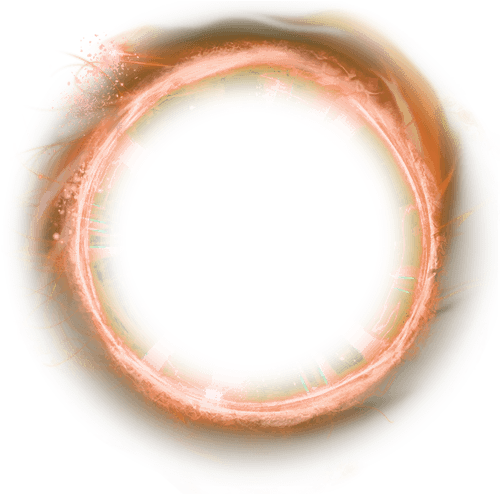
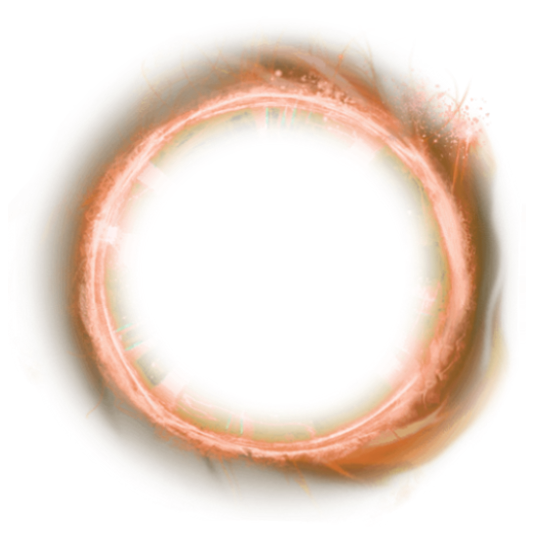
home page portal effect

diff --git a/src/components/home/Home.css b/src/components/home/Home.css
@@ -1,74 +1,81 @@
-body{
+body {
   margin: 0 !important;
 }
 
-.background{
+.background {
   background-image: url("../../../public/pic/Home/hall.jpg");
   background-repeat: no-repeat;
   background-size: contain;
   background-position: center;
   height: 937px;
-
-  
 }
 
-.container{
+.container {
   display: block;
   height: 100%;
 }
 
-.toCar{
+.toCar {
   position: absolute;
   left: 14%;
   top: 50%;
 }
 
-.toPhone{
+.toPhone {
   position: absolute;
-  left: 40%;
-  top: 50%;
+  left: 15%;
+  top: 20%;
+  height: 550px;
+  width: 550px;
+  transform: perspective(500px) rotateY(50deg) scale(0.1);
 }
 
-.toGoods{
+.toPhone:hover {
+  animation: rotate-center2 2s linear both;
+}
+.toGoods {
   position: absolute;
   left: 47.5%;
   top: 45%;
   height: 100px;
   width: 100px;
 }
-
-#doorCar{
+.doorPhone{
+  position: absolute;
+  left: 0%;
+  top: 0%;
+}
+#doorCar {
   width: 250px;
   transform: rotateY(45deg);
 }
 
-#doorCar:hover{
+#doorCar:hover {
   cursor: pointer;
-  -webkit-animation: rotate-center 1.3s linear both;
-          animation: rotate-center 1.3s linear both;
-          animation-iteration-count: infinite;
-          animation-delay: 0;
-          transform: rotateY(45deg);
+  animation: rotate-center 1.3s linear both;
+  animation-iteration-count: infinite;
+  animation-delay: 0;
+}
+.doorPhone:hover {
+  cursor: pointer;
+  animation: rotate-center 0.9s linear both;
+  animation-iteration-count: infinite;
+  animation-delay: 0;
 }
 
-@-webkit-keyframes rotate-center {
-  0% {
-    -webkit-transform: rotate(0);
-            transform: rotate(0);
-  }
-  100% {
-    -webkit-transform: rotate(720deg);
-            transform: rotate(720deg);
-  }
-}
 @keyframes rotate-center {
   0% {
-    -webkit-transform: rotate(0);
-            transform: rotate(0) rotateY(45deg);
+    transform: rotate(0) ;
   }
   100% {
-    -webkit-transform: rotate(720deg);
-            transform: rotate(720deg) rotateY(45deg);
+    transform: rotate(720deg) ;
   }
 }
-
+@keyframes rotate-center2 {
+  0% {
+    transform: perspective(500px) rotateY(45deg) scale(0.1) ;
+  }
+  100% {
+    transform: perspective(500px) rotateY(45deg) scale(0.7) ;
+  }
+}

diff --git a/src/components/home/Home.jsx b/src/components/home/Home.jsx
@@ -1,26 +1,44 @@
 import React from 'react'
+import { useState } from 'react';
 import "./Home.css";
 import { Link, NavLink } from "react-router-dom";
 
 export const Home = () => {
+  const [s1, sets1] = useState({});
+  const [s2, sets2] = useState({});
 
 
+  const changestyle=()=>{
+    sets1({
+      cursor: "pointer",
+      animation: "rotate-center 1.1s linear both",
+      animationIterationCount: "infinite",
+      animationDelay: 0
+    })
+    sets2({
+      cursor: "pointer",
+      animation: "rotate-center 1.0s linear both",
+      animationIterationCount: "infinite",
+      animationDelay: 0
+    })
+  }
   return (
     <div className='background'>
       <div className='container'>
-        <div className="toCar">
+        {/* <div className="toCar">
           <NavLink to="/car" title="자동차 역사관">
-            <img id='doorCar' src='./pic/Home/door.png'/>
+            <img id='doorCar' src='./pic/Home/door.png' />
           </NavLink>
-        </div>
-        <div className="toPhone">
+        </div> */}
+        <div onMouseOver={changestyle}  className="toPhone">
           <NavLink to="/phone" title="자동차 역사관">
-            <img id='doorPhone' src='./pic/Home/door.png'/>
+            <img style={s1} className='doorPhone' src='./pic/Home/door.png' />
+            <img style={s2} className='doorPhone' src='./pic/Home/door.png' />
           </NavLink>
         </div>
         <div className="toGoods">
           <NavLink to="/goods" title="자동차 역사관">
-            <img id='doorPhone' src='./pic/Home/box.png'/>
+            <img src='./pic/Home/box.png' />
           </NavLink>
         </div>
       </div>
